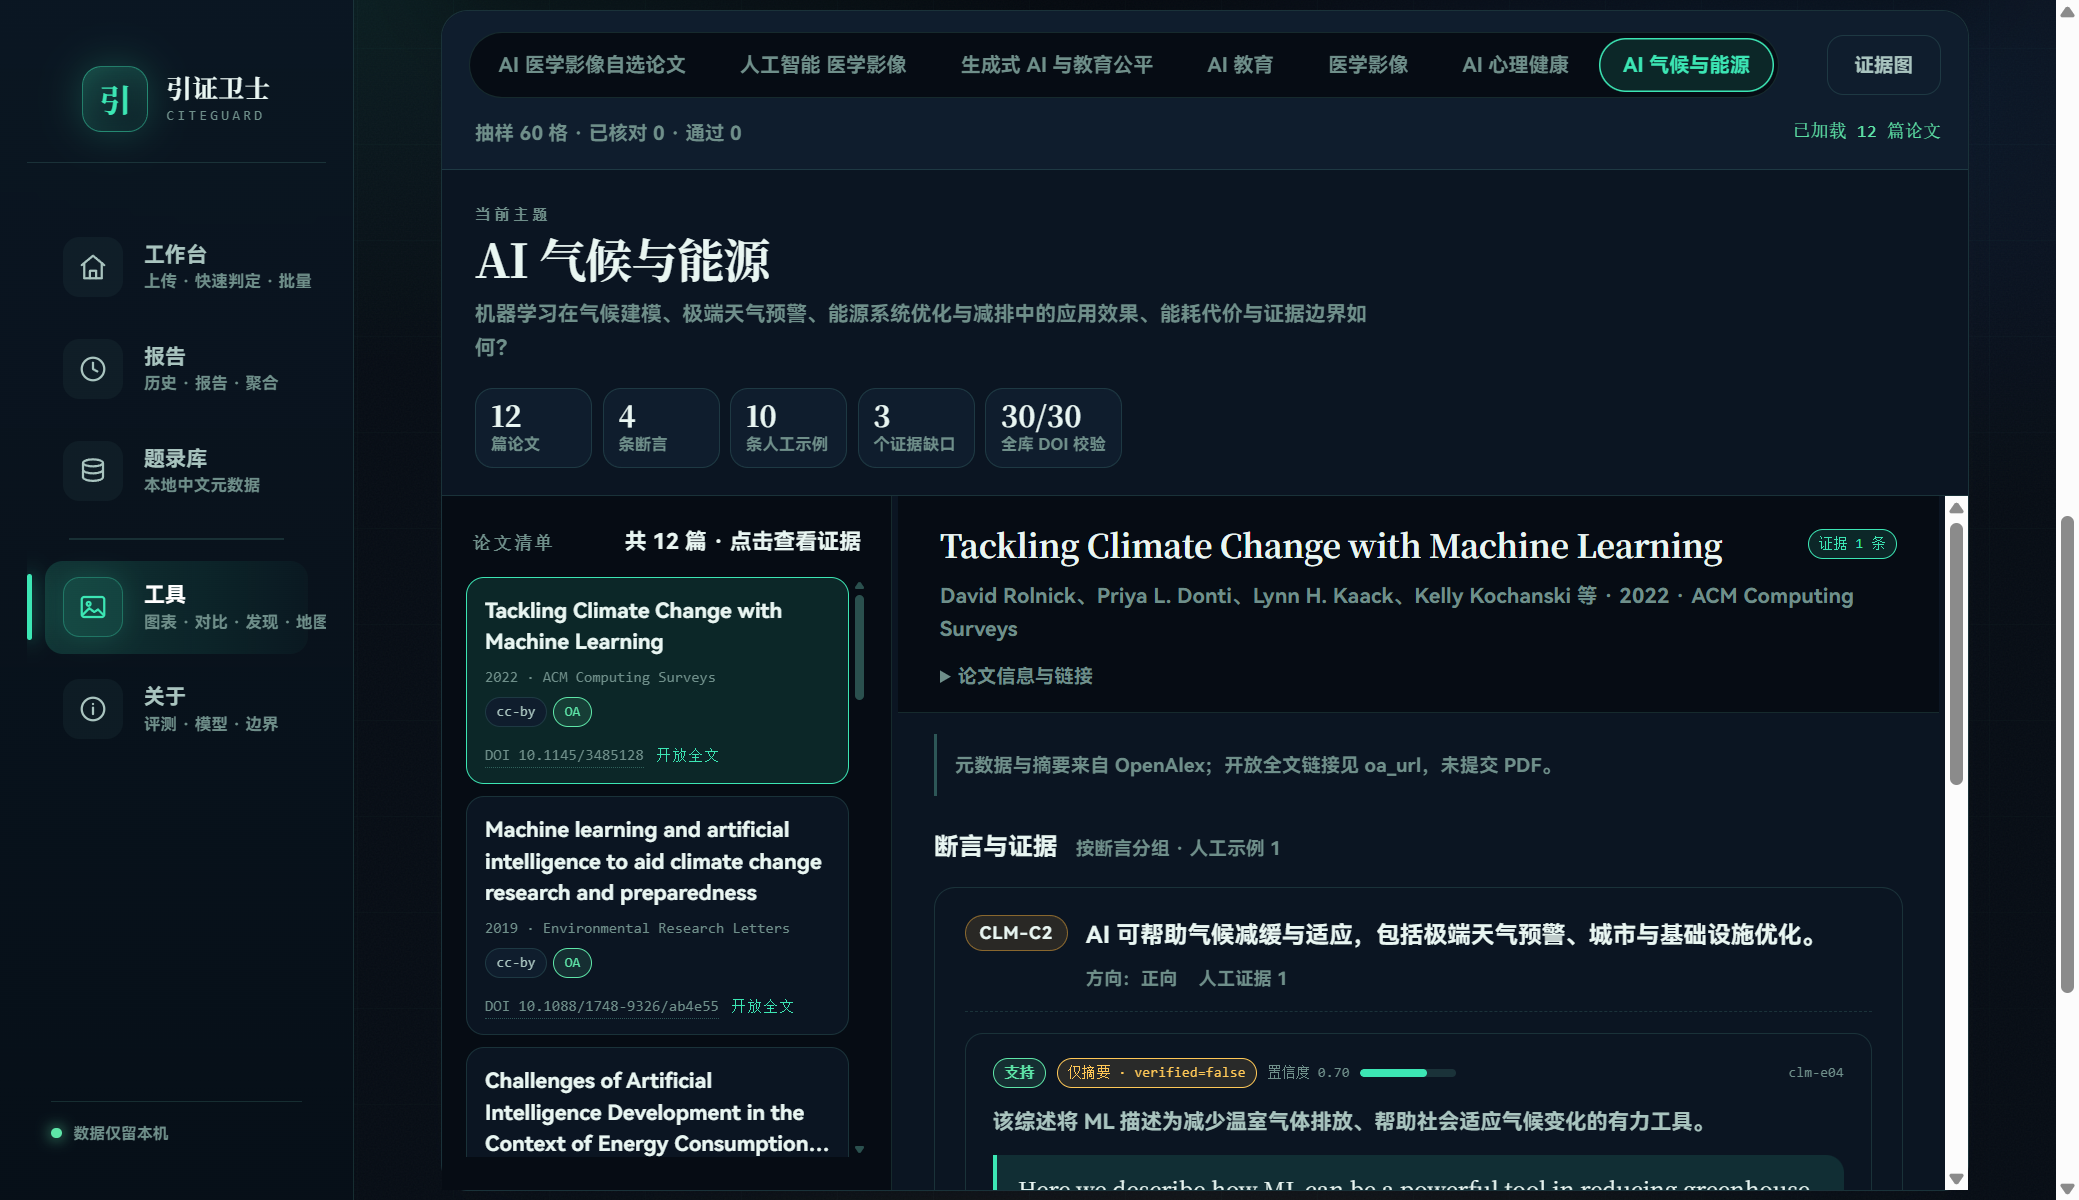
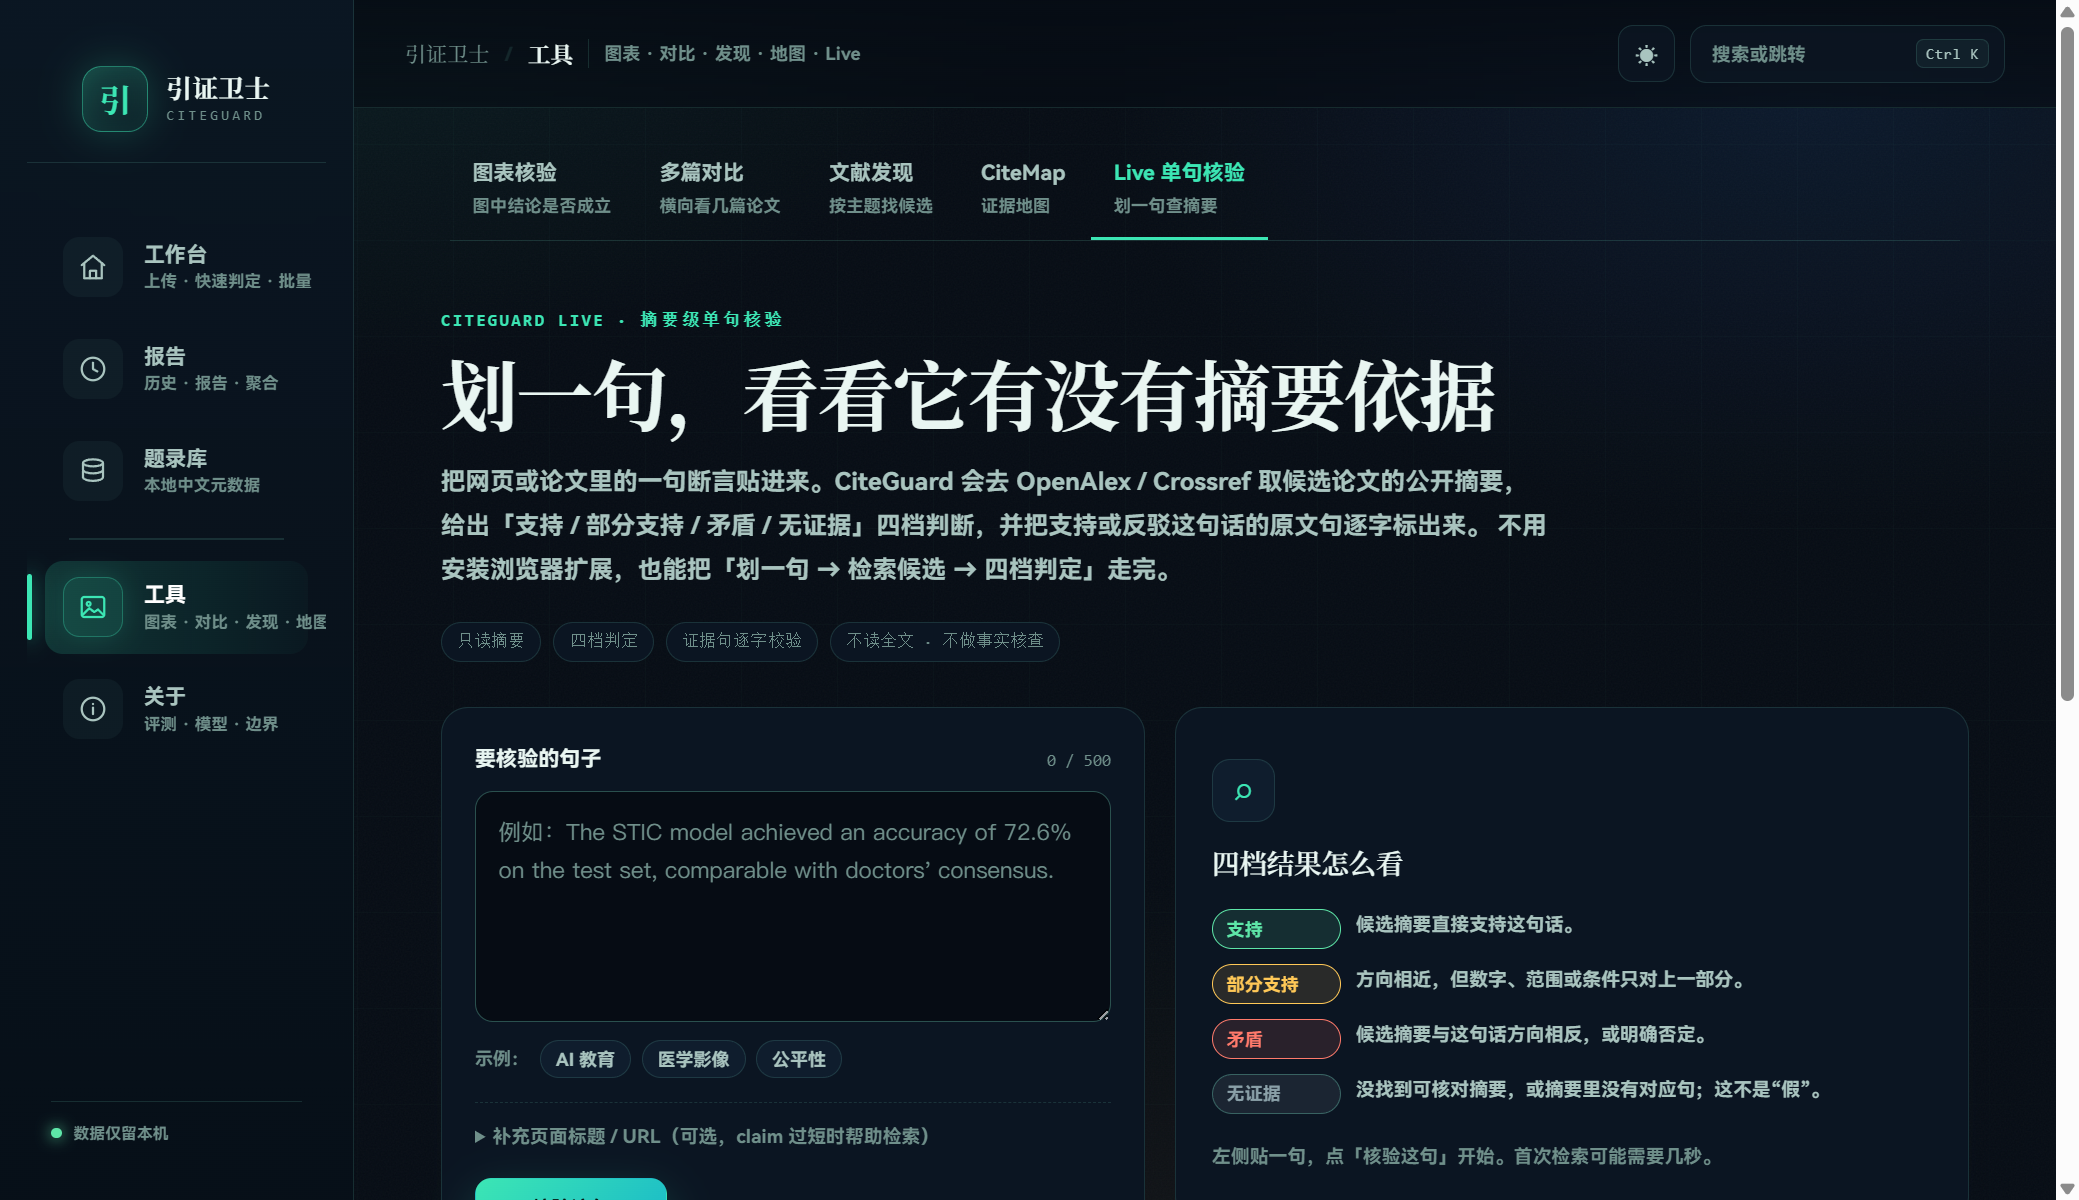
Refresh CiteMap copy and register Live/CiteMap evidence screenshots

diff --git a/web/templates/citemap.html b/web/templates/citemap.html
@@ -23,13 +23,13 @@
     <h1 class="ctm-title">CiteMap · 证据地图</h1>
     <p class="ctm-lede">
       把「某篇论文支持还是反驳了哪条断言」摊开给你看：先列断言，再放带立场的证据、方法与样本，
-      最后标出证据缺口。固定示例是 2 个主题 × 15 篇开放获取论文；也可以输入主题现场检索，
+      最后标出证据缺口。固定示例是 4 个主题 × 12–15 篇开放获取论文；也可以输入主题现场检索，
       生成机器证据地图。<strong>机器层未人审</strong>，不是全量结论。
     </p>
     <div class="ctm-hero-chips" aria-label="数据规模">
-      <span class="ctm-chip">固定示例 2 个主题</span>
+      <span class="ctm-chip">固定示例 4 个主题</span>
       <span class="ctm-chip">可生成新主题</span>
-      <span class="ctm-chip">10 条人工示例</span>
+      <span class="ctm-chip">40 条人工示例</span>
       <span class="ctm-chip">机器层 verified=false</span>
     </div>
 
@@ -79,7 +79,7 @@
                   data-topic-id="{{ topic.topic_id }}" aria-pressed="{{ 'true' if initial_topic == topic.topic_id else 'false' }}">{{ topic.name_zh or topic.name_en or topic.topic_id }}</button>
           {% endfor %}
         </div>
-        <button type="button" class="btn btn-ghost" id="ctm-verify-toggle" aria-pressed="false">核对模式（60 格）</button>
+        <button type="button" class="btn btn-ghost" id="ctm-verify-toggle" aria-pressed="false">核对模式（105 格）</button>
         <button type="button" class="btn btn-ghost" id="ctm-graph-toggle" aria-pressed="false">证据图</button>
         <span class="ctm-verify-count" id="ctm-verify-count" role="status" aria-live="polite"></span>
         <span class="ctm-status" id="ctm-status" role="status" aria-live="polite">正在加载主题…</span>

diff --git a/tests/test_citemap_page.py b/tests/test_citemap_page.py
@@ -84,9 +84,9 @@ def test_template_renders_core_containers_and_copy() -> None:
         assert f'id="{element_id}"' in html, element_id
 
     assert "CiteMap · 证据地图" in html
-    assert "2 个主题" in html
-    assert "2 个主题 × 15 篇开放获取论文" in html
-    assert "10 条人工示例" in html
+    assert "4 个主题" in html
+    assert "4 个主题 × 12–15 篇开放获取论文" in html
+    assert "40 条人工示例" in html
     assert "不是全量结论" in html
     assert "verified=false" in html
     assert "开放获取" in html

diff --git a/docs/evidence_index.md b/docs/evidence_index.md
@@ -168,3 +168,4 @@
 | E106 | Live 页面引用预检（1.7.33） | `src/citeguard/live_page.py`、`web/app.py`（`POST /api/live/page`）、`web/static/js/live.js`、`tests/test_live_page.py` | 只读 arXiv/PMC/Wikipedia HTML；真实 arXiv 2611.07772：54 条文献、78 个标记、78/78 映射（100%），返回前 8 条题录；host 白名单 + 重定向校验 + 2 MB 上限；不返回正文、不判真伪。 | `docs/evidence/shots/phase-67-live-page-probe-1.7.33.png` |
 | E107 | 引用链风险（1.7.34） | `src/citeguard/retraction.py`（`check_chain`/`summarize_chain`）、`web/app.py`（`/api/report/{id}/citation-chain`）、`web/static/js/report.js`、`tests/test_citation_chain_api.py`、`docs/citation_chain.md` | 对已匹配且带 DOI 的条目每篇抽样 12 条参考文献，查一层间接撤稿；真实 DOI `10.1080/14653240600855905` 抽样 8 条命中 1 条撤稿（`10.1038/nature00870`）；真实报告 96511af51c97 抽样 96 条、间接撤稿 0、平均抽样覆盖 100%。只查一层，覆盖不等于全量。 | `docs/evidence/shots/phase-68-citation-chain-1.7.34.png` |
 | E108 | CiteMap 四主题与人工/动态标记（1.7.35） | `web/static/js/citemap.js`、`web/static/css/citemap.css`、`web/templates/citemap.html`、`tests/test_citemap_page.py` | 4 个静态主题（54 篇 / 40 人工 / 4 机器 / 12 缺口）+ 3 个动态主题；主题按钮显示「人工/动态」徽章；真实页面 7 个主题可见 | `docs/evidence/shots/phase-69-citemap-4topics-1.7.35.png` |
+| E109 | Live 页面引用预检 6 页（1.7.35） | `src/citeguard/live_page.py`、`web/app.py`（`POST /api/live/page`）、`web/static/js/live.js`、`tests/test_live_page.py` | 6 页真实页面：252 条参考文献、451 个正文标记、451/451 映射（100%）、317 句引用句；页面显示 54 条文献、97 个标记、97/97 映射与 8 条样例；只定位、不判真伪 | `docs/evidence/shots/phase-70-live-page-probe-1.7.35.png` |
